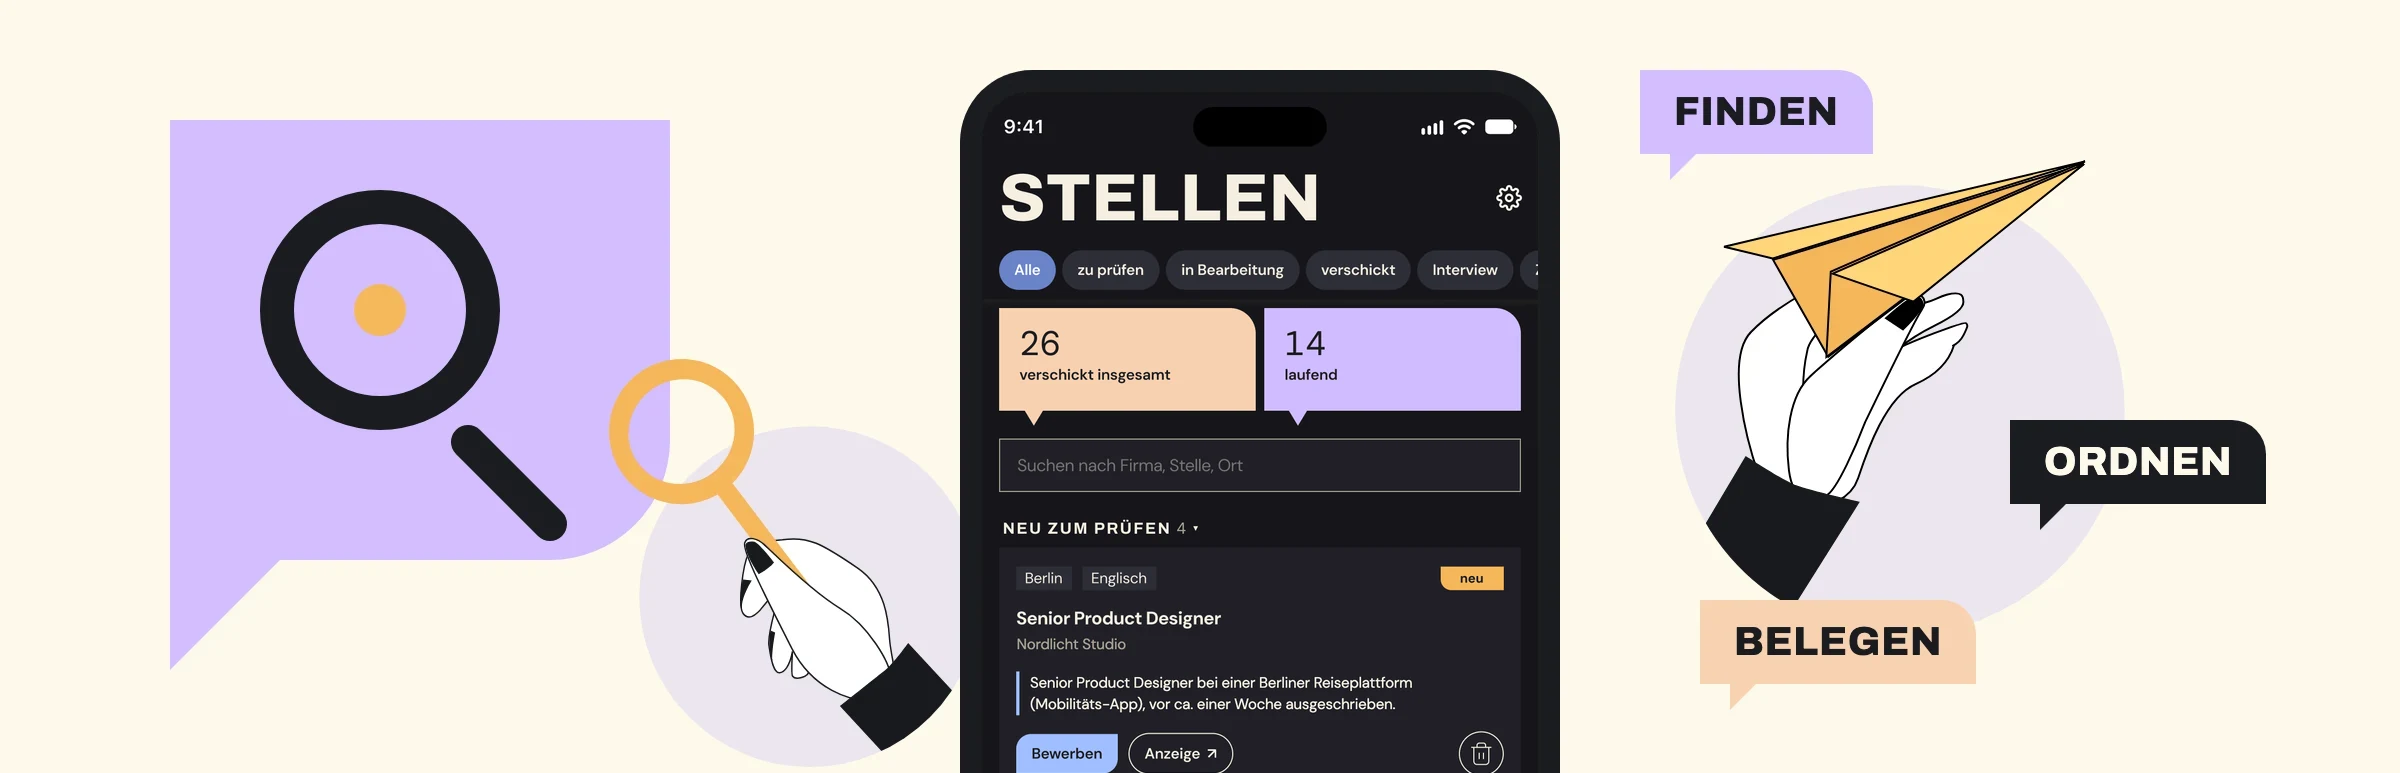
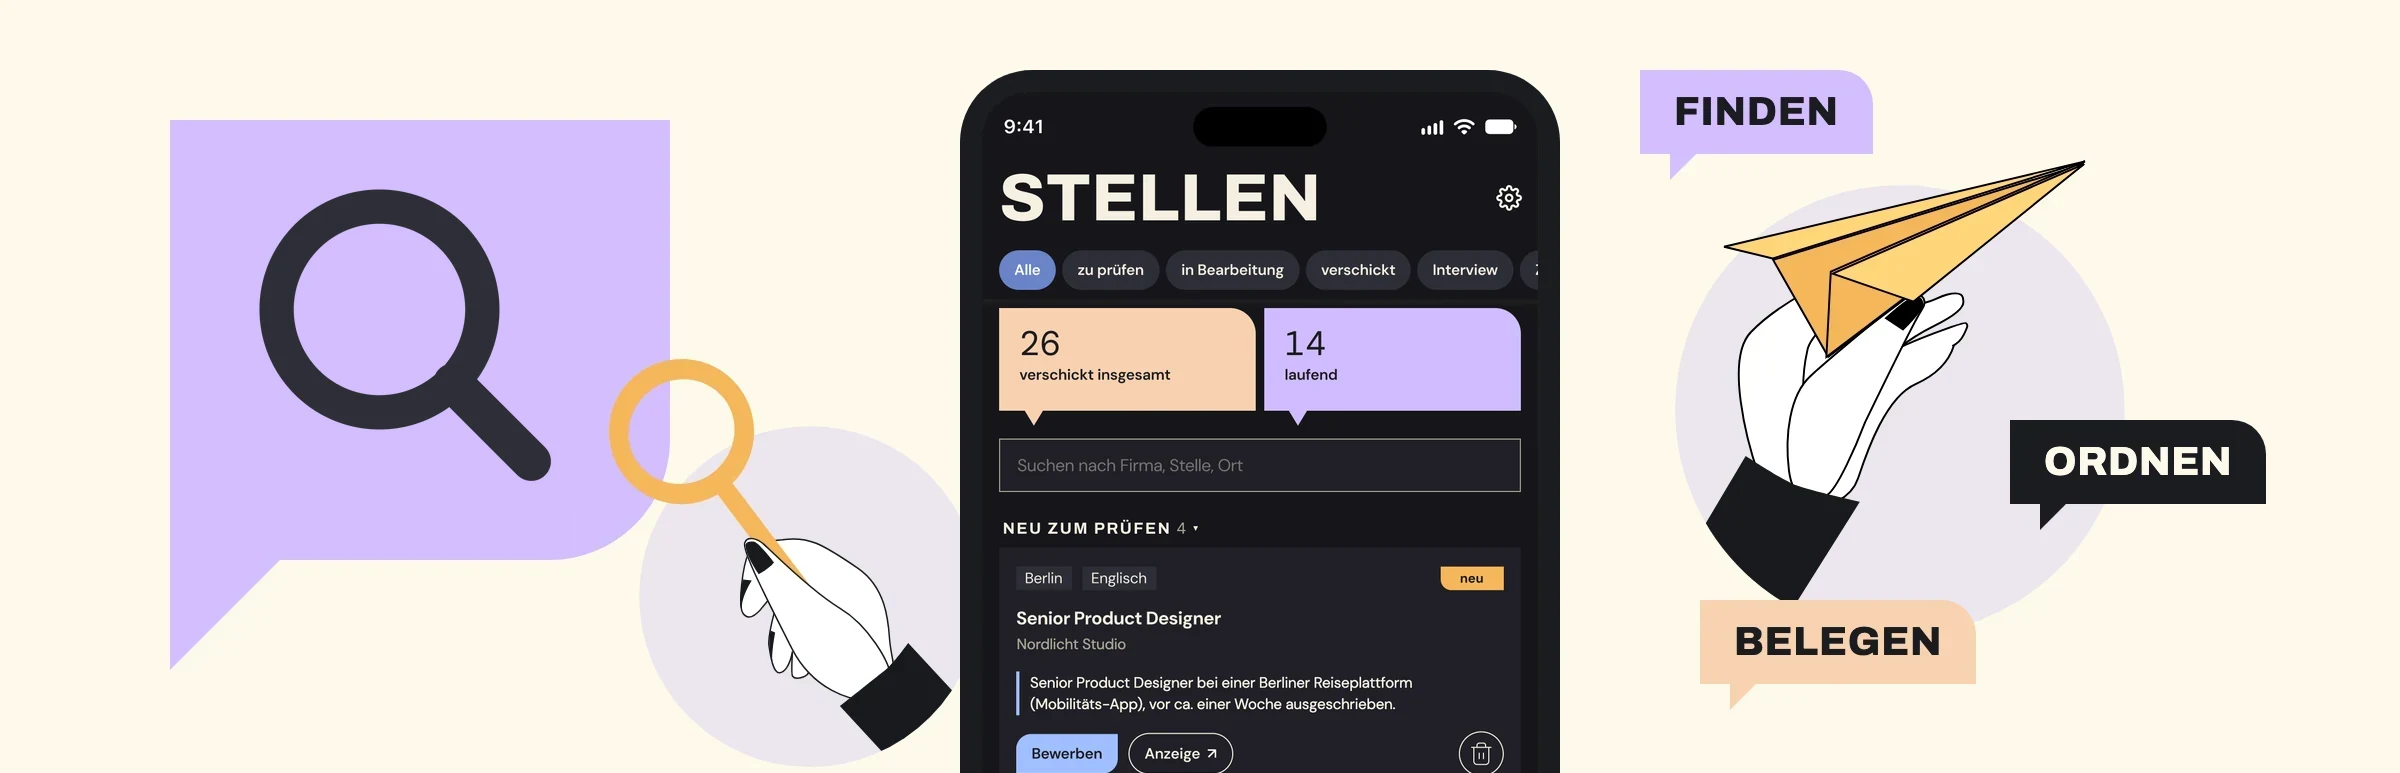
Bewerbungsradar: Lupe in der Sprechblase wie im App-Symbol, ohne orangenen Punkt

Changed region(s): [[0.1562, 0.4347, 0.25, 0.7141], [0.0938, 0.3726, 0.1875, 0.4347], [0.125, 0.2794, 0.1562, 0.3105]]

diff --git a/cs-bewerbungsradar.html b/cs-bewerbungsradar.html
@@ -72,7 +72,7 @@
   <!-- ================= 01 HERO ================= -->
   <section class="cs-hero">
     <div class="wrap">
-      <img class="cs-img cs-hero-img" src="images/radar-hero.webp?v=3" width="2400" height="773" alt="Bewerbungsradar: lila Sprechblase mit Lupe, Handy mit dem Reiter „Stellen“, gezeichnete Hände mit Lupe und Papierflieger, dazu die Sprechblasen Finden, Ordnen, Belegen" data-i18n-alt="rd.hero">
+      <img class="cs-img cs-hero-img" src="images/radar-hero.webp?v=4" width="2400" height="773" alt="Bewerbungsradar: lila Sprechblase mit Lupe, Handy mit dem Reiter „Stellen“, gezeichnete Hände mit Lupe und Papierflieger, dazu die Sprechblasen Finden, Ordnen, Belegen" data-i18n-alt="rd.hero">
     </div>
 
     <div class="cs-hero-head">
@@ -436,7 +436,7 @@
           <p data-only="en"><b>Still open:</b> So far, I’m the only one who has tested the app. Tests with other job seekers haven’t happened yet and are the next step.</p>
           <p class="cs-proto-line"><a class="btn-view is-inline" href="https://bewerbungsradar.vercel.app" target="_blank" rel="noopener"><span data-only="de">Zur Live-App</span><span data-only="en">Open the live app</span></a> <span class="rd-note"><span data-only="de">(Anmeldung per E-Mail)</span><span data-only="en">(sign-in via email)</span></span></p>
         </div>
-        <img class="cs-img is-fill" src="images/radar-tile.webp?v=3" width="1200" height="1500" loading="lazy" alt="Handy mit dem Reiter „Stellen“ des Bewerbungsradars, umgeben von der lila Sprechblase, gezeichneten Händen und den Sprechblasen Finden, Ordnen, Belegen" data-i18n-alt="rd.tile">
+        <img class="cs-img is-fill" src="images/radar-tile.webp?v=4" width="1200" height="1500" loading="lazy" alt="Handy mit dem Reiter „Stellen“ des Bewerbungsradars, umgeben von der lila Sprechblase, gezeichneten Händen und den Sprechblasen Finden, Ordnen, Belegen" data-i18n-alt="rd.tile">
       </div>
 
       <div class="cs-cols3">

diff --git a/index.html b/index.html
@@ -144,7 +144,7 @@
       <li class="sm-tile sm-tall">
         <div class="sm-pic rd-anim" role="img" aria-label="Handy mit dem Reiter „Stellen“ des Bewerbungsradars: ein Papierflieger startet aus einer gezeichneten Hand, nacheinander erscheinen die Sprechblasen Finden, Ordnen, Belegen" data-i18n-aria="sm.radar">
           <div class="rd-stage">
-            <img class="rd-l-bg" src="images/radar-tile-bg.webp?v=3" width="1200" height="1500" loading="lazy" alt="">
+            <img class="rd-l-bg" src="images/radar-tile-bg.webp?v=4" width="1200" height="1500" loading="lazy" alt="">
             <img class="rd-l rd-l-lupe" src="images/radar-tile-lupe.webp" width="270" height="317" loading="lazy" alt="">
             <img class="rd-l rd-l-hand" src="images/radar-tile-hand.webp" width="364" height="364" loading="lazy" alt="">
             <img class="rd-l rd-l-plane" src="images/radar-tile-plane.webp" width="293" height="161" loading="lazy" alt="">

diff --git a/all-projects.html b/all-projects.html
@@ -89,7 +89,7 @@
 
       <!-- Bewerbungsradar (eigene App, in Weiterentwicklung; Text links, Bild rechts) -->
       <article class="card card-dark card-feature card-feature-rev">
-        <div class="pic-box"><img class="pic" src="images/radar-hero.webp?v=3" width="2400" height="773" alt="Bewerbungsradar: lila Sprechblase mit Lupe, Handy mit dem Reiter „Stellen“, gezeichnete Hände mit Lupe und Papierflieger, dazu die Sprechblasen Finden, Ordnen, Belegen" data-i18n-alt="rd.hero"></div>
+        <div class="pic-box"><img class="pic" src="images/radar-hero.webp?v=4" width="2400" height="773" alt="Bewerbungsradar: lila Sprechblase mit Lupe, Handy mit dem Reiter „Stellen“, gezeichnete Hände mit Lupe und Papierflieger, dazu die Sprechblasen Finden, Ordnen, Belegen" data-i18n-alt="rd.hero"></div>
         <div class="txt">
           <div>
             <h3>Bewerbungsradar</h3>
